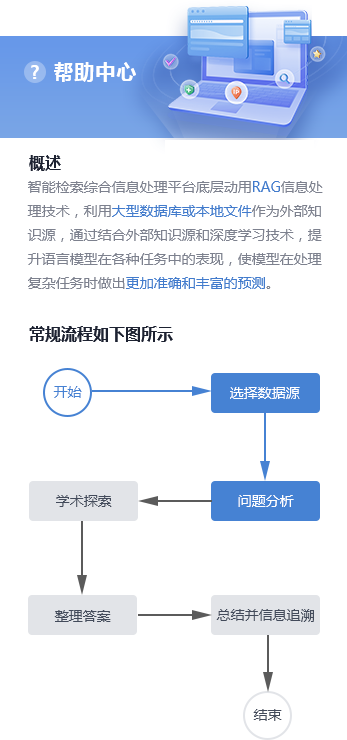
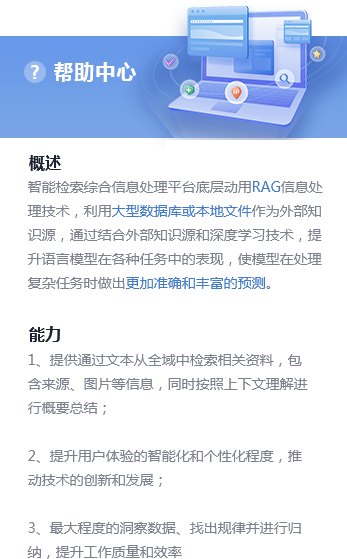
1. update

diff --git a/rag_document/rng_document.py b/rag_document/rng_document.py
@@ -86,75 +86,28 @@ def demo_add_document(vector_store: Chroma):
         metadata={"source": "tweet"},
         id=1,
     )
-
     document_2 = Document(
         page_content="The weather forecast for tomorrow is cloudy and overcast, with a high of 62 degrees.",
         metadata={"source": "news"},
         id=2,
     )
-
     document_3 = Document(
         page_content="Building an exciting new project with LangChain - come check it out!",
         metadata={"source": "tweet"},
         id=3,
     )
-
     document_4 = Document(
         page_content="Robbers broke into the city bank and stole $1 million in cash.",
         metadata={"source": "news"},
         id=4,
     )
-
-    document_5 = Document(
-        page_content="Wow! That was an amazing movie. I can't wait to see it again.",
-        metadata={"source": "tweet"},
-        id=5,
-    )
-
-    document_6 = Document(
-        page_content="Is the new iPhone worth the price? Read this review to find out.",
-        metadata={"source": "website"},
-        id=6,
-    )
-
-    document_7 = Document(
-        page_content="The top 10 soccer players in the world right now.",
-        metadata={"source": "website"},
-        id=7,
-    )
-
-    document_8 = Document(
-        page_content="LangGraph is the best framework for building stateful, agentic applications!",
-        metadata={"source": "tweet"},
-        id=8,
-    )
-
-    document_9 = Document(
-        page_content="The stock market is down 500 points today due to fears of a recession.",
-        metadata={"source": "news"},
-        id=9,
-    )
-
-    document_10 = Document(
-        page_content="I have a bad feeling I am going to get deleted :(",
-        metadata={"source": "tweet"},
-        id=10,
-    )
-
     documents = [
         document_1,
         document_2,
         document_3,
         document_4,
-        document_5,
-        document_6,
-        document_7,
-        document_8,
-        document_9,
-        document_10,
     ]
     uuids = [str(uuid4()) for _ in range(len(documents))]
-
     vector_store.add_documents(documents=documents, ids=uuids)
 
 
@@ -408,6 +361,7 @@ def query_doc_demo():
                 source = doc.metadata['source']
                 sources.append(source)
 
+
 key_words_system_template = '''
 在以下文本中：
 {text}
@@ -453,9 +407,9 @@ def query_keywords_in_file(file_path, user_input=None, st=None):
     fetch_all = cur.fetchall()
     if fetch_all:
         for data in fetch_all:
-            split_keywords = re.split(',|，', data[2])
+            split_keywords = re.split('[,，]', data[2])
             for key_word in split_keywords:
-                if key_word in content:
+                if key_word and key_word in content:
                     seen_key_words.append(data)
     return seen_key_words
 
@@ -473,5 +427,8 @@ if __name__ == '__main__':
     model_name = 'qwen2.5:14b'
     # llm = create_langchain_ollama_llm(base_url=ollama_base_url, model=model_name)
     key_words = ['辅助生殖器械', '雾化设备']
-    seen_key_words = query_keywords_in_file('./test_files/第三批实施医疗器械唯一标识的产品目录.docx')
+    seen_key_words = query_keywords_in_file(
+        'static/pdf_and_doc/GJB150.7A-2009军用装备实验室环境试验方法+太阳辐射试验.docx',
+        user_input='军用装备实验室环境试验方法+高温试验'
+    )
     print(seen_key_words)

diff --git a/components/chatbox.py b/components/chatbox.py
@@ -11,7 +11,7 @@ from config import STATIC_URL
 def chatbox():
     # 设定2列
     query_params = st.query_params
-    logger.info('query_params is {}', query_params)
+    # logger.info('query_params is {}', query_params)
     show_help = query_params.get('help', '')
     if show_help != 'no-help':
         col1, col2 = st.columns([4, 1])
@@ -45,10 +45,6 @@ def chatbox():
                             seen_file_names = set()
                             for sc in st.session_state["sources"]:
                                 logger.info('sc is {}', sc)
-                                # ![local-rag-demo](http://localhost:8501/app/static/oktest_image_url//1446441727800.jpg)
-                                # STATIC_URL
-                                # STATIC_URL = 'http://127.0.0.1:8501/app/'
-                                # base_url = 'http://localhost:8501/app/static/'
                                 image_path = sc.get('image_path', '')
                                 if image_path:
                                     image_markdown_url = '![{}]({}{})'\
@@ -63,19 +59,18 @@ def chatbox():
                                     new_markdown_url = '{}pdf_and_doc/{}'.format(STATIC_URL, file_name)
                                     logger.info('new_markdown_url is {}'.format(new_markdown_url))
                                     a_target = '''<a href="{}" download="{}">{}</a><br/>'''.format(new_markdown_url, file_name, file_name)
-                                    # a_target = '''<a href="{}" rel="noopener noreferrer" download="{}">{}</a><br/>'''.format(new_markdown_url, file_name, file_name)
                                     html_source += a_target
                                     source_placeholder.html(html_source)
 
                                     # show item images
                                     item_images_placeholder = st.empty()
                                     file_path = os.path.join('./static/pdf_and_doc/', file_name)
-                                    # [('static/item_images/0945375522.jpg', '0945375522.jpg', '雾化设备'), ('static/item_images/0957281322.jpg', '0957281322.jpg', '辅助生殖器械')]
                                     seen_key_words = query_keywords_in_file(
                                         file_path,
                                         user_input=prompt,
                                         st=st
                                     )
+                                    logger.info('seen_key_words is {}', seen_key_words)
                                     item_image_urls_markdown = ''
                                     for keyword in seen_key_words:
                                         item_image_url = '![{}]({}{})'.format(keyword[2], STATIC_URL, keyword[0])
@@ -93,7 +88,7 @@ def chatbox():
                         st.chat_message(msg["role"]).write(msg["content"])
     with col2:
         query_params = st.query_params
-        logger.info('query_params is {}', query_params)
+        # logger.info('query_params is {}', query_params)
         show_help = query_params.get('help', '')
         if show_help != 'no-help':
             with st.container(height=800):

diff --git a/components/page_state.py b/components/page_state.py
@@ -48,7 +48,7 @@ def set_initial_state():
         st.session_state["last_chat_input"] = '请输入你要搜索的关键词'
 
     if "knowledge_base_list" not in st.session_state:
-        logger.info('init knowledge base')
+        # logger.info('init knowledge base')
         get_knowledge_base()
     if 'selected_knowledge_base' not in st.session_state:
         logger.info('selected_knowledge_base not in st.session_state')

diff --git a/components/page_config.py b/components/page_config.py
@@ -6,7 +6,7 @@ from utils.logs import logger
 
 def set_page_config():
     query_params = st.query_params
-    logger.info('query_params is {}', query_params)
+    # logger.info('query_params is {}', query_params)
     if query_params.get('sidebar_state', '') == 'collapsed':
         # http://localhost:8503/?sidebar_state=collapsed&help=no-help
         sidebar_state = query_params.get('sidebar_state', '')

diff --git a/config.py b/config.py
@@ -11,7 +11,7 @@ elif getuser() == 'ubuntu':
     STATIC_URL = 'http://125.69.16.175:8501/app/static/'
     OLLAMA_BASE_URL = 'http://125.69.16.175:11434'
 elif getuser() == 'gx':
-    STATIC_URL = 'http://125.69.16.175:8501/app/static/'
+    STATIC_URL = 'http://127.0.0.1:8501/app/static/'
     OLLAMA_BASE_URL = 'http://125.69.16.175:11434'
 else:
     STATIC_URL = 'http://192.168.1.159:8501/app/static/'

diff --git a/utils/langchain_rag_for_st.py b/utils/langchain_rag_for_st.py
@@ -85,5 +85,4 @@ def langchain_chat_stream(q, st):
                         'name': os.path.basename(source_file),
                     }
                     sources.append(new_source)
-
     st.session_state["sources"] = sources
